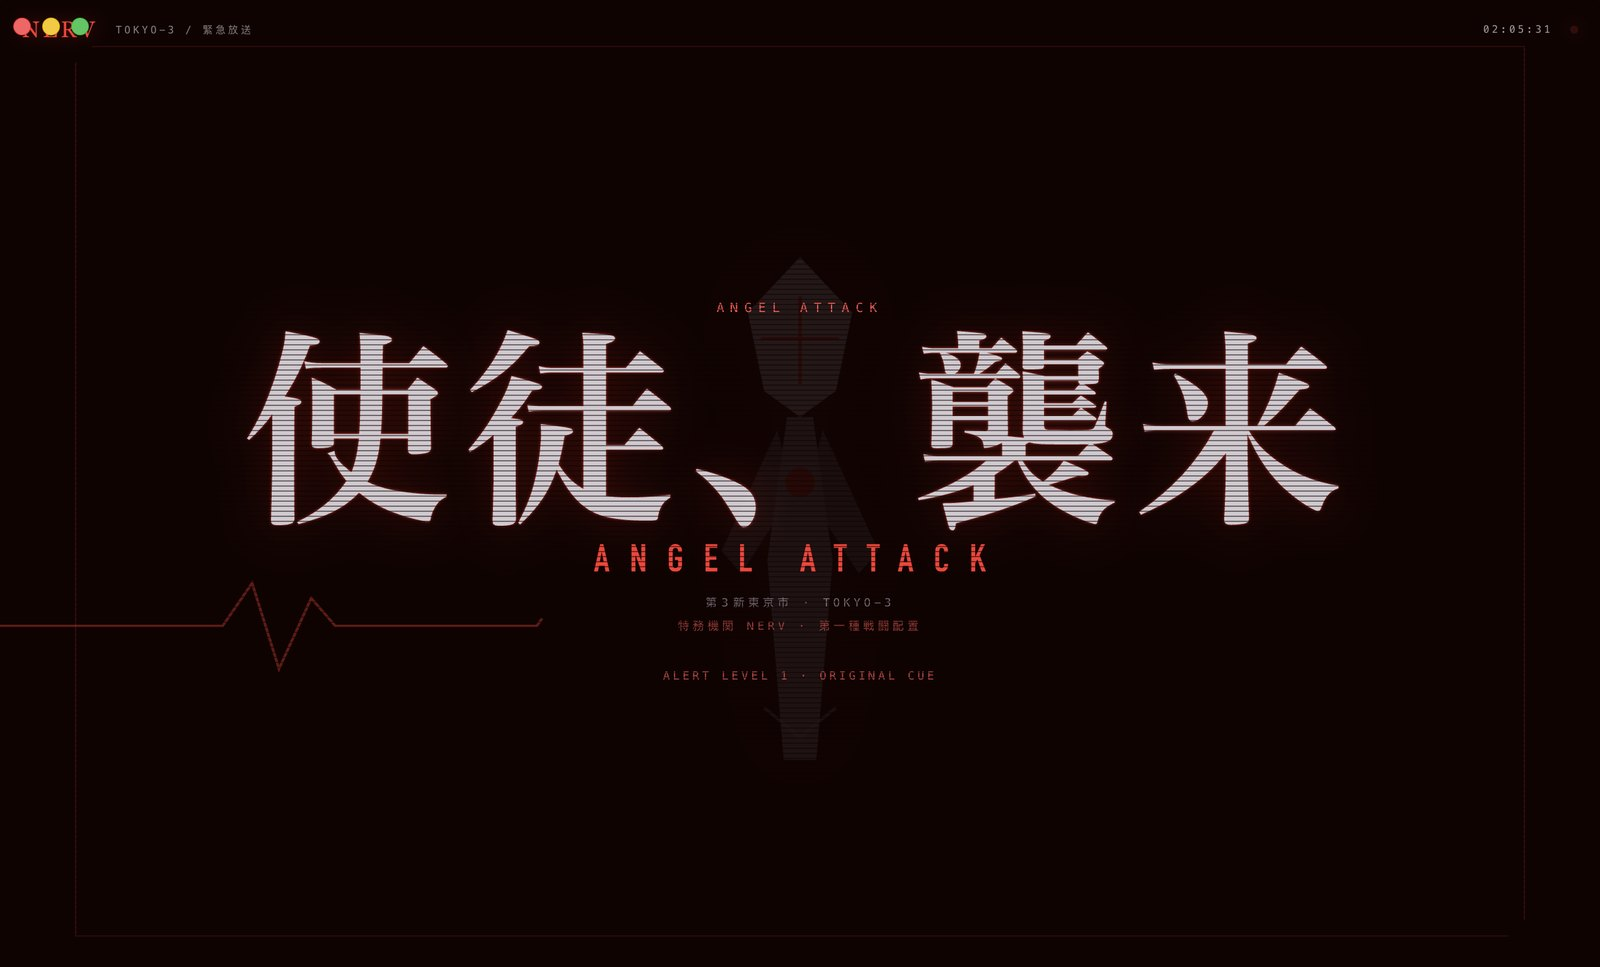
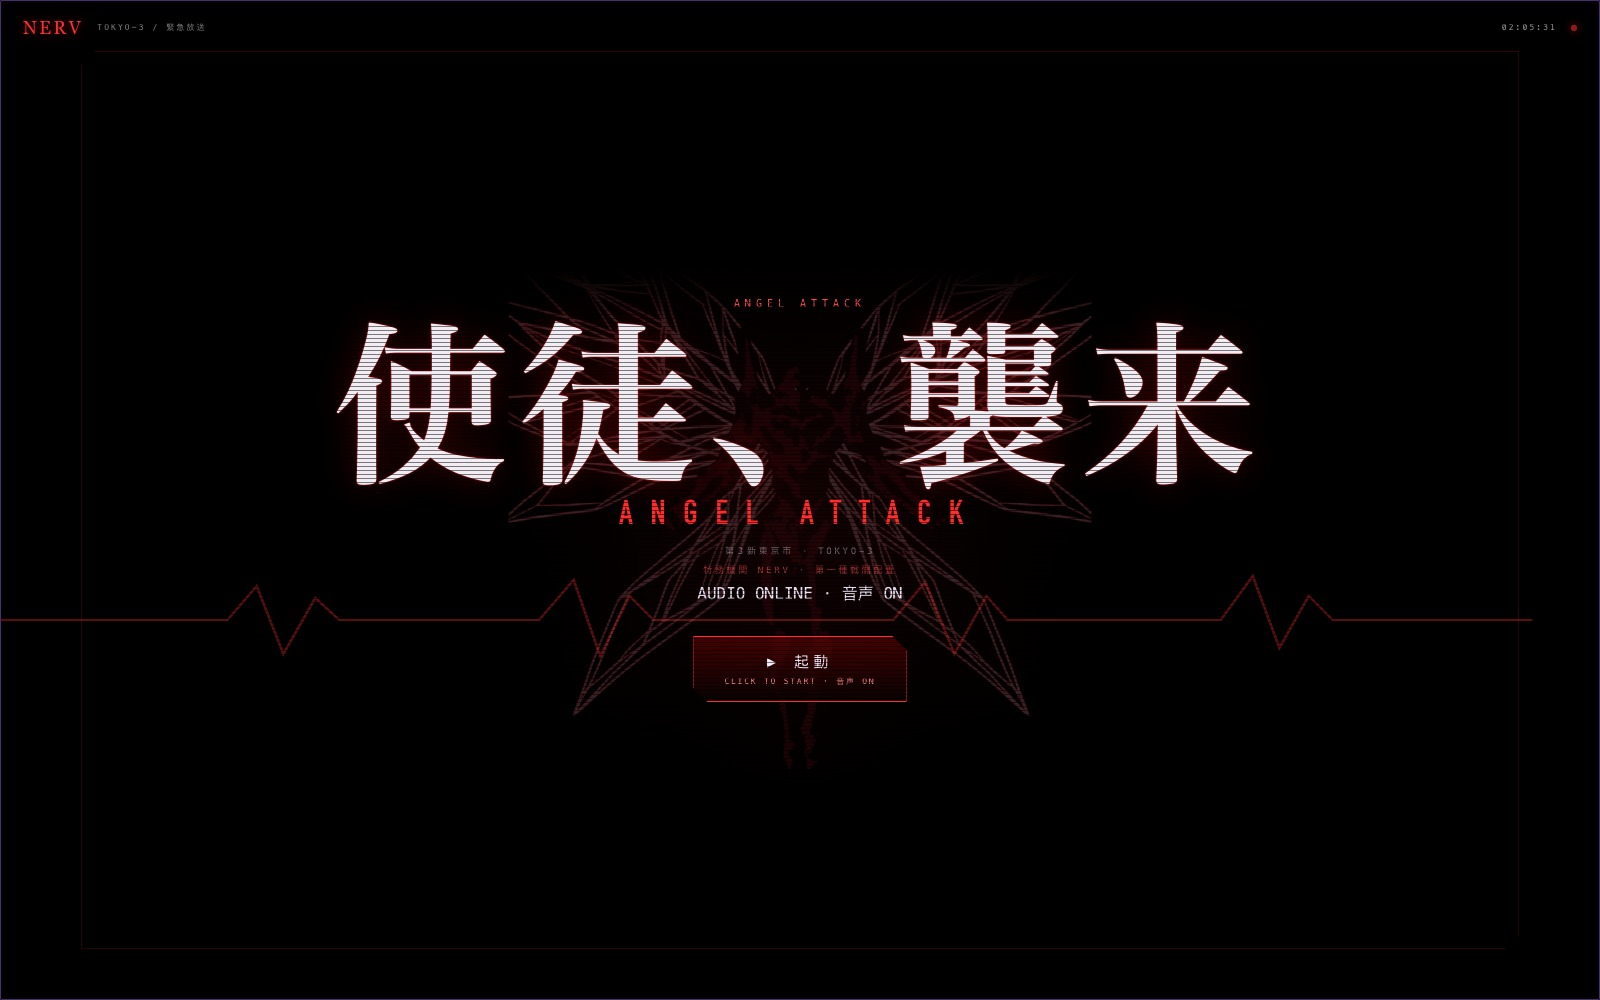
docs: refresh README screenshots for v1.10.1
- new winged-angel attack intro
- current pilot gate and selected-pilot display page
- merged cockpit panel with Rei face framing
- remove obsolete workbench/pilot-rail/old pilot-page screenshots
- update stale workbench/berserk copy

diff --git a/README.md b/README.md
@@ -45,7 +45,7 @@
 | 明日香 / ASUKA LANGLEY | **EVA-02 二号機** | 红橙 + 深红黑 | 模拟高音 `BRIGHT` |
 | 綾波レイ / REI AYANAMI | **EVA-00 零号機** | 白 / 冰蓝 + 冷灰 | 模拟冷淡音 `COLD` |
 
-选择会持久化到 `localStorage: eva01.pilot`；工作台中的 `PILOT` 单元可随时切换驾驶员，主题、机体编号、驾驶卡图片与机体页面一起换。**点选驾驶员卡时会用该驾驶员的日语模拟音说自我介绍**（「こんにちは。碇シンジです…」等）。
+选择会持久化到 `localStorage: eva01.pilot`；侧栏的 `⇄ 切换驾驶员` 入口 / 面板底部驾驶员卡可随时切换。主题、机体编号、驾驶卡图片与机体页面一起换。**点选驾驶员卡时会用该驾驶员的日语模拟音说自我介绍**（「こんにちは。碇シンジです…」等）。
 
 ![插入栓驾驶员选择](docs/pilot-gate.jpg)
 
@@ -63,8 +63,7 @@
 - 每次打开/刷新页面都会先播放「使徒、襲来」开场并停留在选人界面，直到你手动确认
 - 支持 `prefers-reduced-motion`（保留静态选人与声音）
 
-![EVA-02 / 明日香页面](docs/pilot-asuka.jpg)
-![EVA-00 / 绫波丽页面](docs/pilot-rei.jpg)
+![已选择驾驶员展示页](docs/pilot-selected.jpg)
 
 ## 启动序列（约 15.9s）
 
@@ -91,26 +90,28 @@
 
 > 浏览器要求一次用户手势才能出声：点击插入栓界面、`▶ 起動` 或 `♪ 音声` 即可解锁。
 
-## 工作台与余额
+## 驾驶舱面板与余额
 
-聊天下方新增 **NERV WORKBENCH** 扩展条，参考插件的桌面组件思路：
+聊天页左侧是一个合并的 **COCKPIT** 面板，旧版 Workbench 与同步率导轨已移除：
 
-- **BALANCE**：通过 Host 只读路由 `/dsh-eva-unit-01/balance.json` 请求 DeepSeek 官方余额接口，60s 缓存；`↻` 手动刷新。凭据由 Host 的 credentials 服务读取，**密钥不会进入浏览器、日志或响应**；路由校验回环 Host、`Sec-Fetch-Site` 与 Origin。
-- **PILOT**：点击循环切换驾驶员（同时换主题、机体页面，并用新驾驶员的声音自我介绍）。
-- **CLOCK**：本地时针。
-- **SCORE**：原创配乐播放/静音。
-- **TPS**：装饰性实时波形。
-- 余额不可用时显示 `NO KEY` / `OFFLINE` / `TIMEOUT`，不会拖垮页面。
+- 侧栏品牌行空白处的 `⇄ 切换驾驶员` 文字按钮控制显隐；左侧栏折叠时按钮一起消失
+- 面板默认隐藏；点击入口显示。有边距时按聊天列与左右侧栏实时测量，不遮挡聊天；非全屏没有边距时改为靠左浮层
+- **顶部驾驶员**：肖像、姓名/机体编号、同步环、A10 / LCL / VOICE
+- **中部 EVA POWER**：剩余额度映射电量（¥1≈1%）、电池段、余额、15% 阈值、MAGI / A.T. / UPLINK / MODE
+- **底部驾驶员切换**：点击名字进入已选择驾驶员展示页，同步环 0→100% 后手动「接続開始」，不会直接切聊天页
+- 可拖动，双击头部复位；`－` 收起、`×` 隐藏；面板高度按内容自适应
+- **余额低于 ¥15 自动 BERSERK**，恢复后自动解除
+- 余额通过 Host 只读路由 `/dsh-eva-unit-01/balance.json` 获取，60s 缓存；凭据在 Host 侧读取，密钥不会进入浏览器、日志或响应；不可用时显示 `NO KEY` / `OFFLINE` / `TIMEOUT`
 
-![工作台与同步率导轨](docs/workbench.jpg)
-![驾驶员同步率导轨](docs/pilot-rail.jpg)
+![合并的驾驶舱面板](docs/cockpit-panel.jpg)
 
 ## 主界面机甲化
 
-- 底部全宽遥测条：`EVA-0x / 発進管制 / PILOT 0x / SYNC / MAGI / POWER / A.T. FIELD / LCL / 波形 / 时钟 / CYCLE`
-- 左右边缘刻度导轨 + 竖排雕刻标签、输入舱切角与四角螺栓、消息板切角、侧栏警示条
-- 顶部编号牌 `EVA-0x / PILOT 0x`，侧边栏品牌与 Hero 区跟随机体配色
-- 侧边栏折叠态自动适配（隐藏与 macOS 窗口按钮冲突的编号牌、左上准星与左导轨）
+- 底部精简遥测条：`EVA-0x / 発進管制 / 時計 / CYCLE / 暴走`（旧版重复读数已移除）
+- 输入舱切角、消息板切角、侧栏警示条与机体配色
+- 合并驾驶舱面板：顶部驾驶员信息、中部电量/状态、底部驾驶员切换
+- 侧栏折叠态自动适配；面板/toggle 跟随侧栏展开与折叠
+- 顶部旧编号牌与 Workbench 已移除，避免与面板重复
 
 ## 失控模式（BERSERK / 暴走）
 
@@ -125,7 +126,7 @@
 - 全站血红/琥珀配色；`制御不能` 爆闪 + 驾驶员失控语音
 - **一次性 5s 画面抖动**（±4px / 每 1.15s 剧烈抽动，`scale(1.02)` 防露白边），5s 后自动收住
 - 6 条水平撕裂故障带 + 每 4.2s 整屏闪断 + 纵向滚动故障
-- 遥测变为 `SYNC 412.0% / MAGI FAILED / POWER OVERLOAD / A.T. FIELD COLLAPSED / LCL LEAK`
+- 状态栏、面板驾驶舱边框与 POWER 指示转红，`制御不能` 爆闪
 - 配乐切到 128 BPM 失真层与警报；退出恢复当前驾驶员语音与曲目
 
 ## 安装
@@ -165,8 +166,8 @@ git clone https://github.com/brunozhang416/dsh-eva-unit-01-skin.git
 | 侧栏 `◐ MODE` | 明暗切换 |
 | 侧栏 `♪ 音声` | 配乐 / 音效 / 语音总开关 |
 | 工作台 `PILOT` | 循环切换驾驶员 |
-| 工作台 `BALANCE ↻` | 刷新账户余额 |
-| 侧栏 / 遥测条 `⚠ 暴走` | 切换失控模式 |
+| 面板 `EVA POWER ↻` | 刷新账户余额 |
+| 侧栏 / 状态栏 `⚠ 暴走` | 切换失控模式 |
 
 状态键：`eva01.hud.fx`、`eva01.berserk`、`eva01.sound`、`eva01.gate`、`eva01.pilot`。
 
